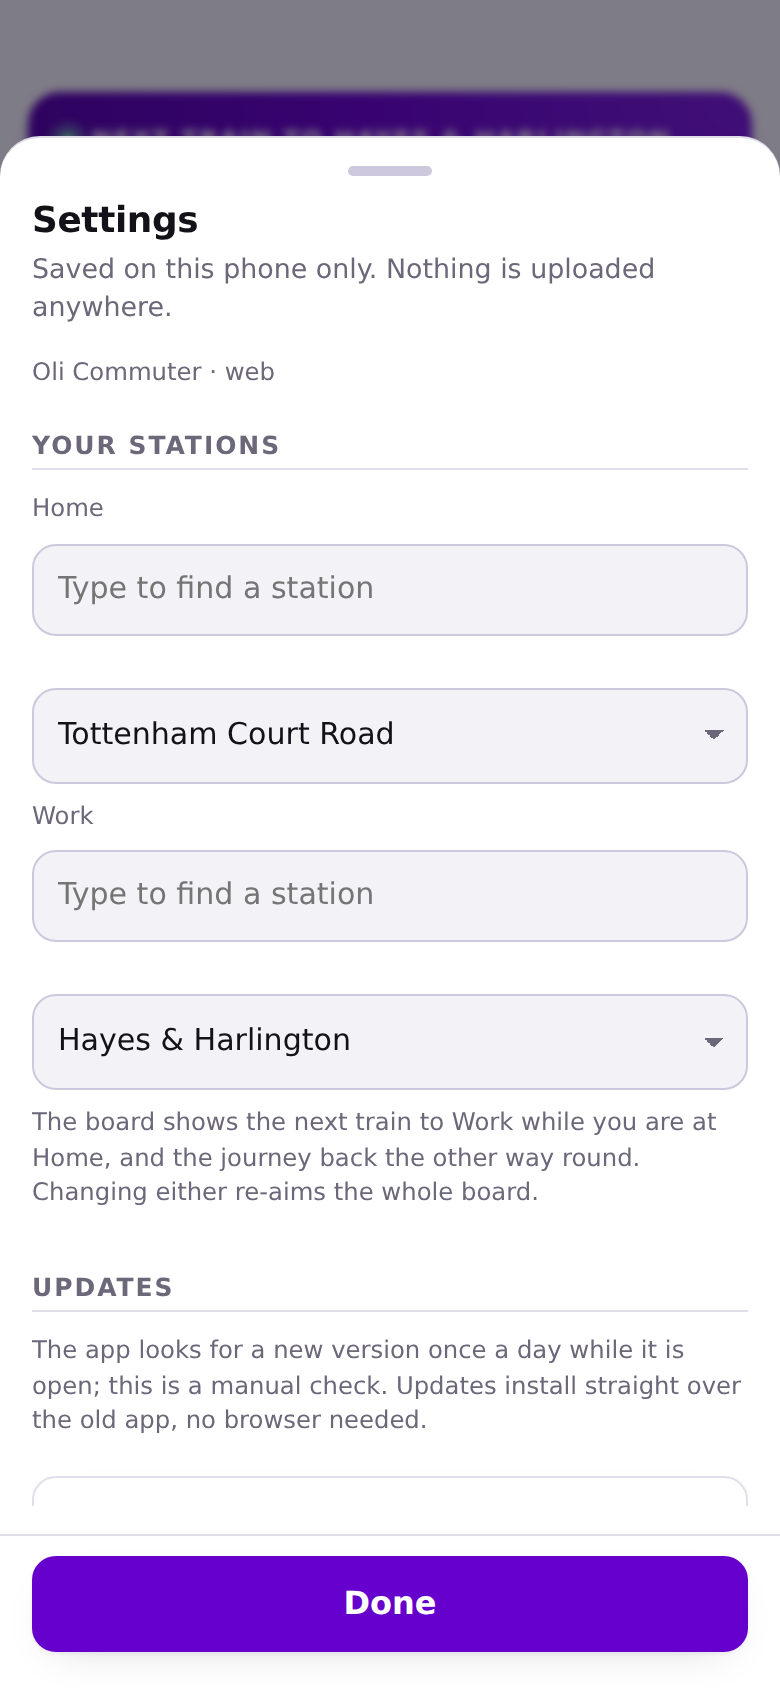
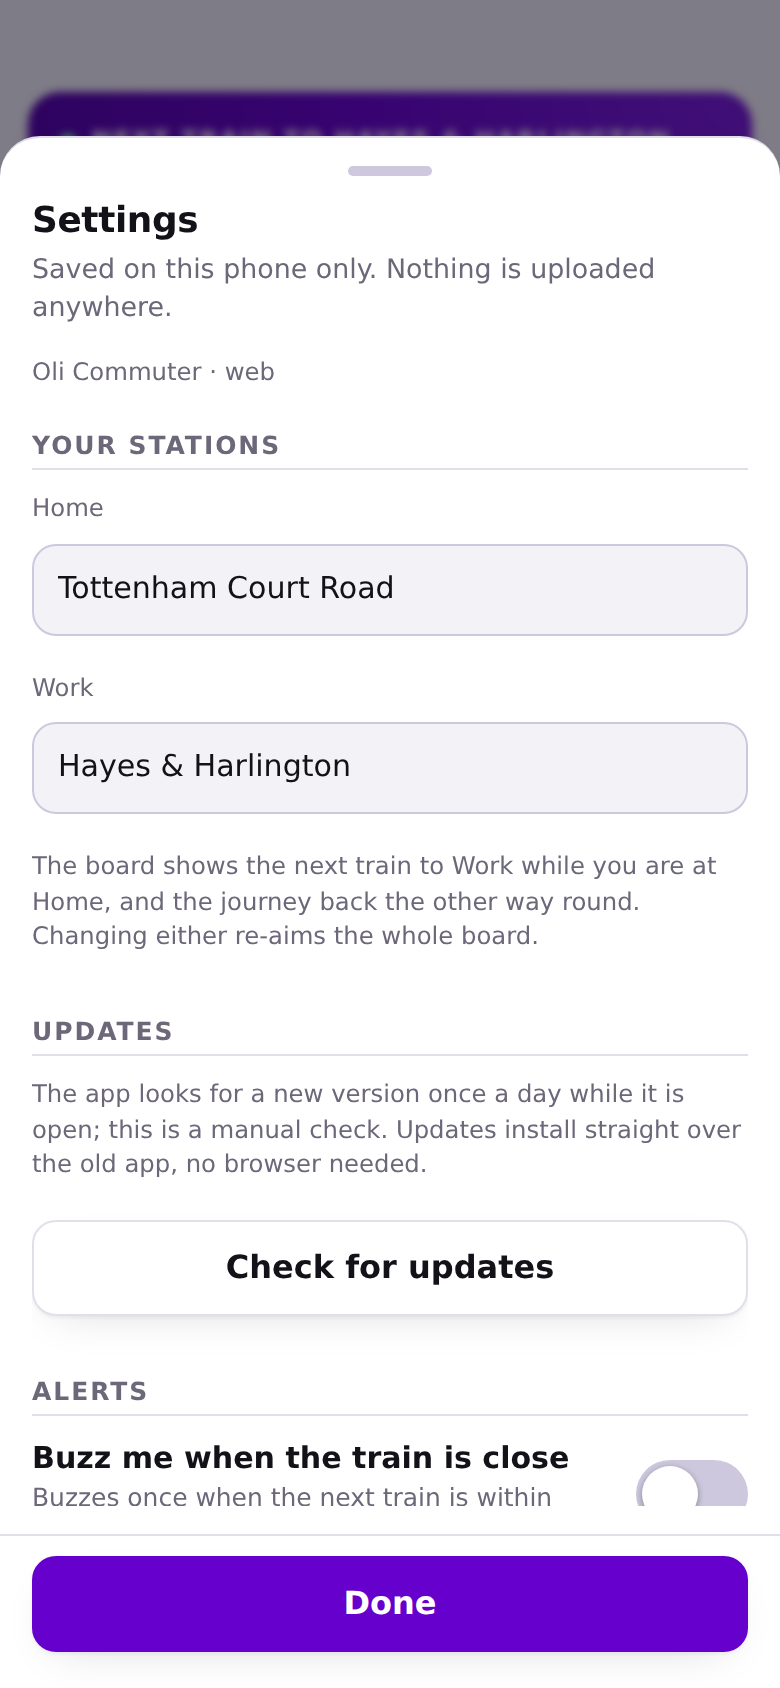
v1.5.5: the station picker is one box
- the find box IS the picker now: it holds the current station, tap opens
  the full list under it (current pick highlighted, scrollable), typing
  narrows it, one tap picks and keeps the name in the box; blur restores
  the current name when you walk away mid-type
- the second control — visible native select and its system popup — is
  gone from Settings and setup; the select survives invisible, still
  carrying the stored value and change events for tests and settings sync
- R8/S1 rewritten for the new contract (found en route: passing render
  straight to addEventListener fed the event object in as showAll)

diff --git a/web/index.html b/web/index.html
@@ -271,12 +271,15 @@
     background:var(--card);border-top:1px solid var(--line)}
   .sheet-done .btn{width:100%}
   #routeSheet .route-head{position:sticky;top:0;z-index:2;background:var(--card);padding:8px 0 6px}
-  .suglist{display:flex;flex-direction:column;gap:6px;margin:6px 0 4px}
+  .pick{position:relative}
+  .picker-select{position:absolute;left:0;top:0;width:100%;height:2px;opacity:0;pointer-events:none;border:0;padding:0;margin:0}
+  .suglist{display:flex;flex-direction:column;gap:6px;margin:6px 0 4px;max-height:232px;overflow-y:auto;-webkit-overflow-scrolling:touch}
   .sug{display:block;width:100%;text-align:left;min-height:48px;padding:12px 14px;border-radius:12px;
     border:1px solid var(--line);background:var(--bg);font:inherit;font-weight:650;font-size:.92rem;
     color:var(--ink);cursor:pointer}
   .sug:active{background:var(--el-soft);border-color:var(--el)}
   .sug.more{border:0;background:none;color:var(--muted);font-weight:600;min-height:auto;padding:4px 2px}
+  .sug.on{border-color:var(--el);background:var(--el-soft)}
   .newsl{list-style:disc;margin:10px 0 0;padding-left:22px;font-size:.92rem;line-height:1.6;color:var(--ink-2)}
   .newsl li{margin-bottom:9px}
   .keybox summary{cursor:pointer;font-weight:750;font-size:.9rem;min-height:44px;display:flex;align-items:center}
@@ -383,13 +386,17 @@
   <h2 id="setupTitle">Your two stations</h2>
   <p class="lede">Pick the station you leave from and the one you travel to. The board then always faces the right way, and your location picks the direction for you. You can change either in Settings any time.</p>
   <h3>Home</h3>
-  <input class="txt" id="setupHomeFind" type="search" placeholder="Type to find a station" autocomplete="off" aria-label="Filter the Home list" style="min-height:44px;margin-bottom:6px">
+  <div class="pick">
+    <input class="txt" id="setupHomeFind" type="search" placeholder="Type to find a station" autocomplete="off" aria-label="Home station — type to find, tap to pick" style="min-height:44px">
     <div class="suglist" id="setupHomeSugs" hidden></div>
-  <select class="txt" id="setupHome"></select>
+    <select class="txt picker-select" id="setupHome" tabindex="-1" aria-hidden="true"></select>
+  </div>
   <h3>Work</h3>
-  <input class="txt" id="setupWorkFind" type="search" placeholder="Type to find a station" autocomplete="off" aria-label="Filter the Work list" style="min-height:44px;margin-bottom:6px">
+  <div class="pick">
+    <input class="txt" id="setupWorkFind" type="search" placeholder="Type to find a station" autocomplete="off" aria-label="Work station — type to find, tap to pick" style="min-height:44px">
     <div class="suglist" id="setupWorkSugs" hidden></div>
-  <select class="txt" id="setupWork"></select>
+    <select class="txt picker-select" id="setupWork" tabindex="-1" aria-hidden="true"></select>
+  </div>
   <p class="fine" id="setupNote" hidden>Both picks need to be different stations.</p>
   <div class="row" style="margin-top:16px">
     <button class="btn" id="setupLater">Set it up later</button>
@@ -420,13 +427,17 @@
   <h3>Your stations</h3>
   <div class="stack">
     <label class="fine" for="optHome">Home</label>
-    <input class="txt" id="optHomeFind" type="search" placeholder="Type to find a station" autocomplete="off" aria-label="Filter the Home list" style="min-height:44px">
-    <div class="suglist" id="optHomeSugs" hidden></div>
-    <select class="txt" id="optHome"></select>
+    <div class="pick">
+      <input class="txt" id="optHomeFind" type="search" placeholder="Type to find a station" autocomplete="off" aria-label="Home station — type to find, tap to pick" style="min-height:44px">
+      <div class="suglist" id="optHomeSugs" hidden></div>
+      <select class="txt picker-select" id="optHome" tabindex="-1" aria-hidden="true"></select>
+    </div>
     <label class="fine" for="optWork">Work</label>
-    <input class="txt" id="optWorkFind" type="search" placeholder="Type to find a station" autocomplete="off" aria-label="Filter the Work list" style="min-height:44px">
-    <div class="suglist" id="optWorkSugs" hidden></div>
-    <select class="txt" id="optWork"></select>
+    <div class="pick">
+      <input class="txt" id="optWorkFind" type="search" placeholder="Type to find a station" autocomplete="off" aria-label="Work station — type to find, tap to pick" style="min-height:44px">
+      <div class="suglist" id="optWorkSugs" hidden></div>
+      <select class="txt picker-select" id="optWork" tabindex="-1" aria-hidden="true"></select>
+    </div>
     <p class="fine">The board shows the next train to Work while you are at Home, and the journey back the other way round. Changing either re-aims the whole board.</p>
   </div>
 
@@ -982,9 +993,9 @@ function maybeOpenSetup(){
   if(store.get("setupSeen", false)) return;
   setupOpened = true;
   store.set("setupSeen", true);
-  $("setupHomeFind").value = ""; $("setupWorkFind").value = "";
   fillStationSelects($("setupHome"), state.ids.home);
   fillStationSelects($("setupWork"), state.ids.work);
+  pickerShows.forEach(f => f());
   setupPreview();
   $("setupSheet").hidden = false; $("scrim2").hidden = false;
   document.body.style.overflow = "hidden";
@@ -1792,35 +1803,41 @@ function fillStationSelects(el, selectedId){
   el.innerHTML = ids.map(id => `<option value="${id}">${esc(cleanDest(state.names[id]))}</option>`).join("");
   if(selectedId && state.names[selectedId]) el.value = selectedId;
 }
+const pickerShows = [];
 function stationFilterPair(selectId, inputId, listId){
   const sel = $(selectId), inp = $(inputId), list = $(listId);
   if(!sel || !inp || !list) return;
+  const nameOf = id => cleanDest((state.names || {})[id] || "");
+  const showSelected = () => { if(document.activeElement !== inp) inp.value = sel.value ? nameOf(sel.value) : ""; };
   const hide = () => { list.hidden = true; list.innerHTML = ""; };
-  inp.addEventListener("input", () => {
-    const q = inp.value.trim().toLowerCase();
+  let tapped = false;
+  const render = (showAll) => {
+    const q = showAll ? "" : inp.value.trim().toLowerCase();
     const ids = Object.keys(state.names || {}).sort((a,b) => cleanDest(state.names[a]).localeCompare(cleanDest(state.names[b])));
     const keep = q ? ids.filter(id => cleanDest(state.names[id]).toLowerCase().includes(q)) : ids;
-    const before = sel.value;
-    sel.innerHTML = keep.length
-      ? keep.map(id => `<option value="${id}">${esc(cleanDest(state.names[id]))}</option>`).join("")
-      : `<option value="">no station matches</option>`;
-    if(keep.includes(before)) sel.value = before;
-    if(sel.value !== before) sel.dispatchEvent(new Event("change", { bubbles: true }));
-    if(!q){ hide(); return; }
-    list.innerHTML = keep.slice(0, 7).map(id =>
-        `<button type="button" class="sug" data-id="${id}">${esc(cleanDest(state.names[id]))}</button>`).join("")
-      + (keep.length > 7 ? `<span class="sug more">${keep.length - 7} more — open the list below</span>` : "")
-      + (!keep.length ? `<span class="sug more">no station matches that</span>` : "");
+    if(!keep.length){ list.innerHTML = `<span class="sug more">no station matches “${esc(q)}”</span>`; list.hidden = false; return; }
+    list.innerHTML = keep.map(id =>
+      `<button type="button" class="sug${id === sel.value ? " on" : ""}" data-id="${id}">${esc(cleanDest(state.names[id]))}</button>`).join("");
     list.hidden = false;
-  });
+    const on = list.querySelector(".sug.on");
+    if(on && document.activeElement === inp) on.scrollIntoView({ block:"nearest" });
+  };
+  inp.addEventListener("focus", () => { try{ inp.select(); }catch(e){} render(true); });
+  inp.addEventListener("input", () => render());
+  inp.addEventListener("blur", () => setTimeout(() => { if(tapped){ tapped = false; return; } hide(); showSelected(); }, 220));
+  list.addEventListener("pointerdown", () => { tapped = true; });
   list.addEventListener("click", e => {
     const b = e.target.closest && e.target.closest("button.sug");
     if(!b) return;
+    tapped = true;
     const before = sel.value;
     fillStationSelects(sel, b.dataset.id);
-    inp.value = ""; hide();
+    inp.value = nameOf(b.dataset.id); hide();
     if(sel.value !== before) sel.dispatchEvent(new Event("change", { bubbles: true }));
+    inp.blur();
   });
+  sel.addEventListener("change", () => setTimeout(showSelected, 0));
+  pickerShows.push(showSelected);
 }
 stationFilterPair("setupHome","setupHomeFind","setupHomeSugs");
 stationFilterPair("setupWork","setupWorkFind","setupWorkSugs");
@@ -1983,8 +2000,8 @@ $("btnShowAll").addEventListener("click", () => {
 let sheetReturnFocus = null;
 function openSheet(){
   syncSheet();
-  $("optHomeFind").value = ""; $("optWorkFind").value = "";
   fillStationSelects($("optHome"), state.ids.home); fillStationSelects($("optWork"), state.ids.work);
+  pickerShows.forEach(f => f());
   sheetReturnFocus = document.activeElement;
   $("sheet").hidden = false; $("scrim").hidden = false;
   document.body.style.overflow = "hidden";
@@ -2177,6 +2194,9 @@ let geoDeferred = !store.get("setupSeen", false);
 if(settings.geoOn && !geoDeferred){ startGeoWatch(); pollGeoOnce(); }
 if(isNativeApp() && Date.now() - state.updateCheckedAt > UPDATE.staleMs){ UPDATE.check(false); }
 const NOTES = {
+  "1.5.5": [
+    "Station picking is one box now. Tap it and the stations drop down under it; type and the list narrows; tap a name and the box keeps it. The separate dropdown, and its popup, are gone."
+  ],
   "1.5.4": [
     "When TfL pushes a train back you now see how far: an amber '+5 late' on the card, in the list and on the route sheet.",
     "Each train shows the time it is expected at your other station, read from that station's own live board.",

diff --git a/README.md b/README.md
@@ -35,8 +35,9 @@ id is `com.localtools.olicommuter`.
 - **Your two stations, Home and Work.** First run asks for them once; after that the whole
   board faces the right way — next train to Work when you are at Home, the journey back when
   you are not. Either one is changed in Settings any time, and every station on the line is a
-  valid pick, not just the two this app shipped with — and each picker has a find box that
-  shows a tap-to-pick list as you type, so forty-odd stations is never an alphabet trudge.
+  valid pick, not just the two this app shipped with. Each picker is one box: tap it and the
+  stations drop down, type and the list narrows, tap a name and it stays in the box — so
+  forty-odd stations is never an alphabet trudge.
 - **The next train, unmissably big, and at the top.** Countdown, minutes, platform,
   destination, and whether it actually calls at the other station — the big card leads the
   screen and nothing else repeats it.

diff --git a/CHANGELOG.md b/CHANGELOG.md
@@ -3,6 +3,18 @@
 Worth-noting changes only. The version in `package.json` and `versionName` in
 `android/app/build.gradle` move together; tags are the version with a `v` in front.
 
+## 1.5.5 — 2026-11-16
+
+- The station picker is a single combobox: the box itself shows the current
+  station; tapping it drops the full list (current pick highlighted and
+  scrolled into view, list scrolls); typing narrows it live; one tap picks,
+  saves and leaves the name in the box; walking away mid-type restores the
+  current name
+- The redundant second control — the native dropdown and its system popup —
+  is gone from Settings and first-run setup. Its select element stays in the
+  page, invisible, as the stored value and the change-event carrier
+- README: the picker is described as it now behaves
+
 ## 1.5.4 — 2026-11-16
 
 - Late trains are named: the app keeps a ledger of TfL's first prediction per train
